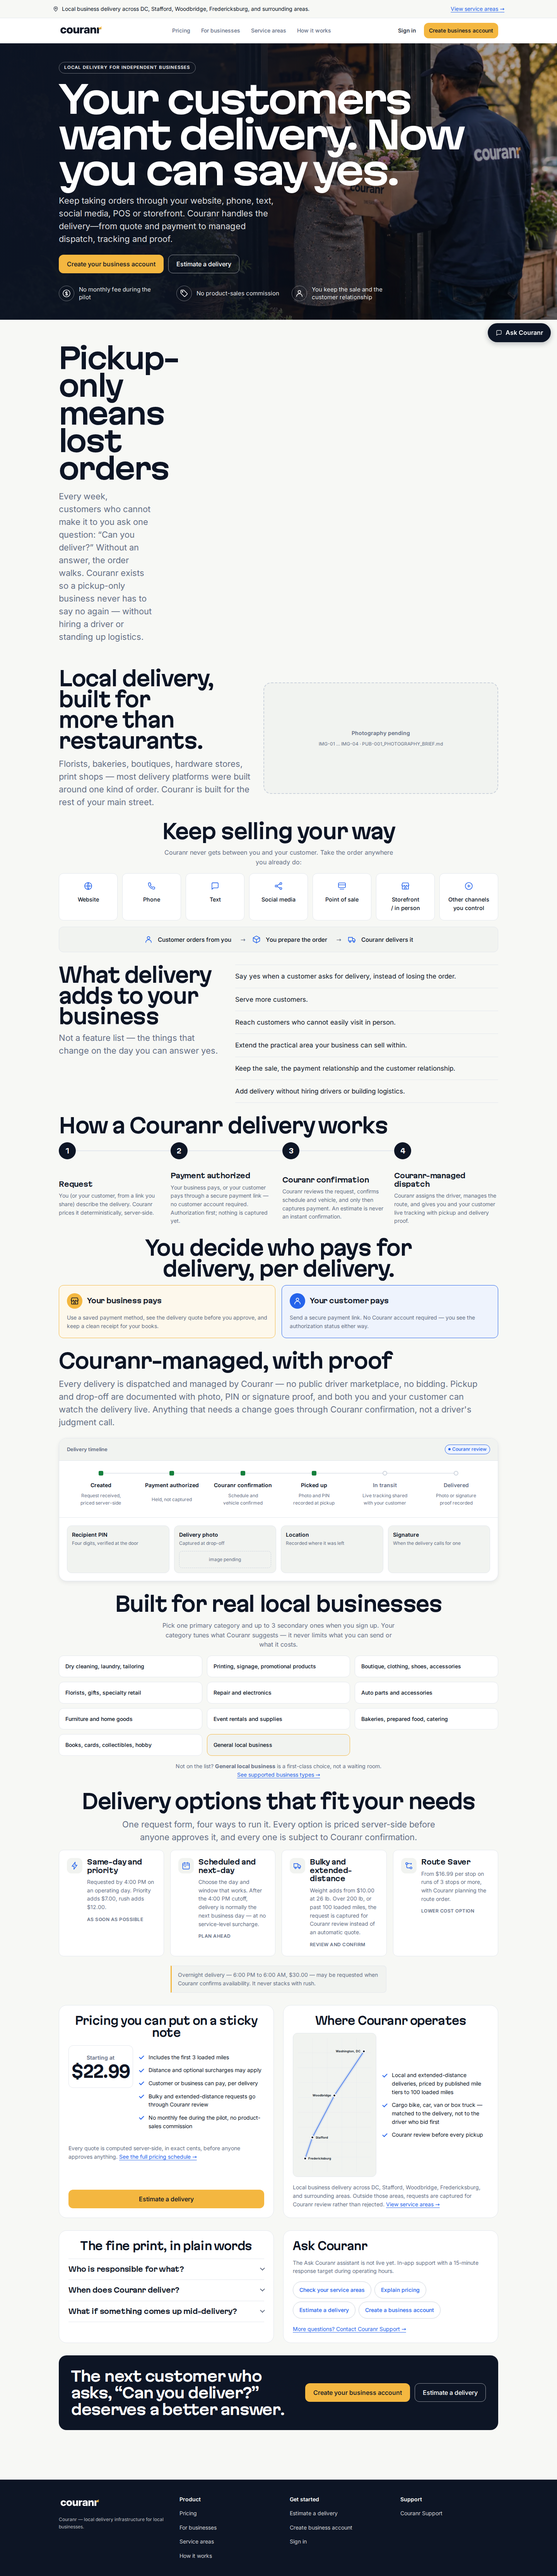
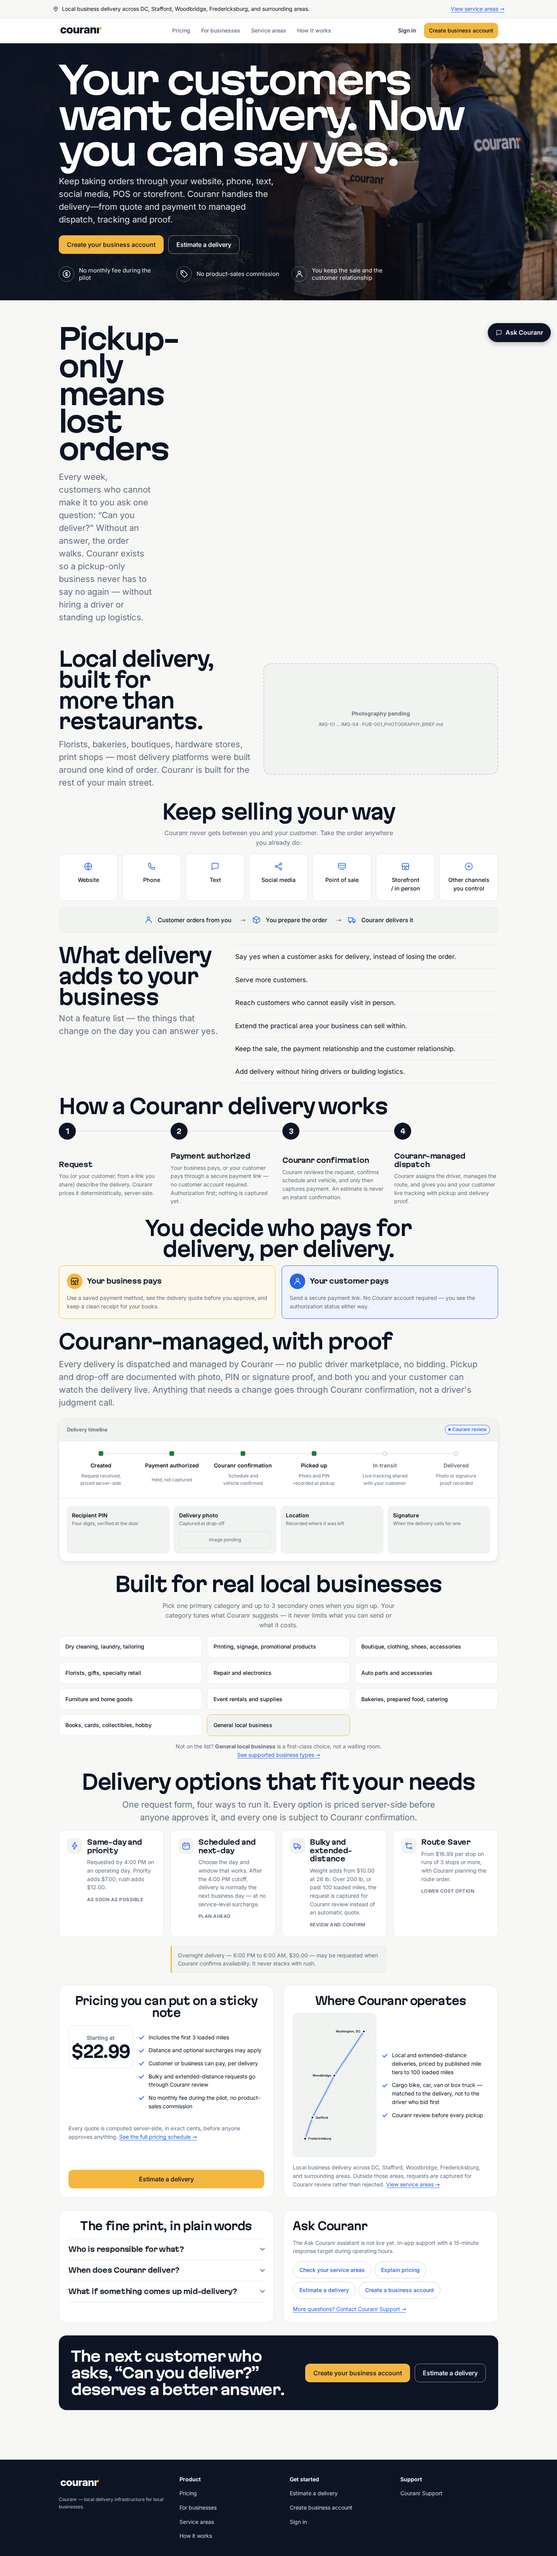
Remove the hero eyebrow — owner instruction, no eyebrows anywhere
"The eyebrow local delivery needs to be removed. I don't want any eyebrows."

This settles the one question COURANR_VISUAL_FIDELITY_AMENDMENT.md §5.1
explicitly reserved for the owner. §5.1 said both that a pill in this hero is not
itself a defect — the artboard shows one — and that the copy conflict between the
artboard's DELIVERY MADE SIMPLE and MKT-002's descriptor was not the agent's to
resolve. The owner resolved it by removing the pattern rather than choosing a
string.

The element is gone and `.cr-hero__label` is deleted from the stylesheet with it.
An unused class is one import away from returning, and that is exactly how the
shared marketing eyebrow reached four screens with no mock.

- The test that asserted "exactly ONE public screen carries a contextual label,
  and it is PUB-001" now asserts none does, and also that the rule is gone from
  the CSS.
- Amendment §6's substitution ban — no pill, chip, tiny uppercase label, badge or
  decorative rule in its place — now covers all five public screens rather than
  the four the eyebrow was first removed from.
- Gate C and the evidence capture drop the label as a sampled region rather than
  making it optional: a region that silently measures nothing is how a gate stops
  testing without going red.

SURFACED RATHER THAN BURIED: MKT-002's consumer descriptor "Local delivery for
independent businesses" lived only in that pill and is now rendered nowhere, so
[…]

Changed region(s): [[0.0, 0.0, 1.0, 0.9357], [0.8125, 0.3431, 0.875, 0.3743], [0.7812, 0.9045, 0.8438, 0.9357]]

diff --git a/tests/couranr-visual-tokens.test.ts b/tests/couranr-visual-tokens.test.ts
@@ -288,17 +288,22 @@ describe("§32.4 + fidelity amendment §6 — the eyebrow rule", () => {
     expect(offenders, `shared eyebrow reintroduced in: ${offenders.join(", ")}`).toEqual([]);
   });
 
-  it("exactly ONE public screen carries a contextual label, and it is PUB-001", () => {
+  it("NO public screen carries a contextual label", () => {
+    // This asserted the opposite — "exactly one, and it is PUB-001" — because
     // PUB-001's artboard visibly shows a rounded bordered pill above the
-    // headline, so the treatment is mock-supported and stays. Nothing else has
-    // a mock, so nothing else may have one.
+    // headline and amendment §5.1 says its presence is not itself a defect.
+    // §5.1 also says the copy question belongs to the owner, and the owner
+    // resolved it: no eyebrows anywhere, including the one the mock shows. The
+    // class is deleted from the stylesheet as well, because an unused class is
+    // one import away from returning.
     const carrying: string[] = [];
     for (const f of CANON_FILES.filter((f) => /\(public\)[\\/].*page\.tsx$/.test(f))) {
       if (/cr-hero__label/.test(readFileSync(f, "utf8"))) {
         carrying.push(path.relative(ROOT, f));
       }
     }
-    expect(carrying).toEqual(["app/(couranr)/(public)/page.tsx"]);
+    expect(carrying).toEqual([]);
+    expect(LIVE_CSS).not.toContain(".cr-hero__label {");
   });
 
   it("the retired eyebrow was not swapped for another small-label pattern", () => {
@@ -306,10 +311,12 @@ describe("§32.4 + fidelity amendment §6 — the eyebrow rule", () => {
     // uppercase labels, badge components, or decorative rules." Checked as an
     // absence on the four screens the label was removed from, because a
     // like-for-like swap is the obvious way to defeat this rule.
-    const RETIRED = ["businesses", "service-areas", "how-it-works", "pricing"];
+    // All five now, not the four the eyebrow was first removed from: the owner
+    // removed PUB-001's too, so it is subject to the same substitution ban.
+    const RETIRED = ["", "businesses", "service-areas", "how-it-works", "pricing"];
     for (const page of RETIRED) {
       const src = readFileSync(
-        path.join(CANON, `(public)/${page}/page.tsx`),
+        path.join(CANON, `(public)/${page}/page.tsx`.replace("//", "/")),
         "utf8",
       );
       const heroBlock = src.slice(0, src.indexOf("</section>"));
@@ -322,12 +329,17 @@ describe("§32.4 + fidelity amendment §6 — the eyebrow rule", () => {
     }
   });
 
-  it("the governed hero copy is still present", () => {
-    // The ban is on the PATTERN, not the copy. If this goes red the removal
-    // was over-applied. MKT-002's descriptor stays until the owner resolves
-    // the mock-vs-MKT-002 copy conflict recorded in amendment §5.1.
+  it("the governed hero HEADLINE and supporting copy are still present", () => {
+    // The ban is on the PATTERN, and this is the guard against over-applying
+    // it. It used to assert MKT-002's consumer descriptor ("Local delivery for
+    // independent businesses") was on the page — that string lived only in the
+    // eyebrow, so the owner's removal took it with it. The registry line has
+    // no rendered home now and the owner should amend it; what stays asserted
+    // is the copy that has one.
     const home = readFileSync(path.join(CANON, "(public)/page.tsx"), "utf8");
-    expect(home).toContain("Local delivery for independent businesses");
+    expect(home).toContain("Your customers want delivery.");
+    expect(home).toContain("Now you can say yes.");
+    expect(home).toContain("Keep taking orders through your website");
   });
 });
 

diff --git a/app/(couranr)/couranr.css b/app/(couranr)/couranr.css
@@ -1086,30 +1086,14 @@
   padding-inline: var(--couranr-space-4);
 }
 
-/* PUB-001's hero contextual label — the artboard visibly shows a rounded,
-   bordered, uppercase pill above the headline, so this treatment is
-   mock-supported and stays. Renamed from `.cr-hero__eyebrow` because the WORD
-   is what got institutionalised: a "marketing eyebrow" reads as a reusable
-   pattern, and it was reused on four screens with no mock. This is one label on
-   one screen.
-
-   COPY CONFLICT, UNRESOLVED AND NOT MINE TO SETTLE (amendment §5.1): the
-   artboard's pill reads DELIVERY MADE SIMPLE — the approved tagline lockup —
-   while MKT-002 specifies the hero eyebrow copy this renders. Written authority
-   controls copy, so MKT-002's text stays and the geometry follows the mock. The
-   owner resolves which one the hero should carry. */
-.cr-hero__label {
-  display: inline-block;
-  text-transform: uppercase;
-  letter-spacing: 0.09em;
-  font-size: 0.72rem;
-  font-weight: var(--couranr-weight-semibold);
-  color: var(--couranr-text-inverse);
-  border: 1px solid rgba(255, 255, 255, 0.4);
-  border-radius: var(--couranr-radius-pill);
-  padding: 5px 13px;
-  margin: 0 0 var(--couranr-space-5);
-}
+/* NO HERO EYEBROW. `.cr-hero__label` (and `.cr-hero__eyebrow` before it) is
+   deleted, not left unused — an unused class is one import away from returning,
+   which is exactly how the shared marketing eyebrow spread to four screens that
+   had no mock. Owner instruction: no eyebrows anywhere, including the one the
+   PUB-001 artboard shows. Amendment §6 bans the substitutes too — pill, chip,
+   tiny uppercase label, badge, decorative rule — and
+   tests/couranr-visual-tokens.test.ts asserts their absence on all five public
+   screens. */
 
 /* Layout and colour only. The TYPE belongs to `.cr-type-hero` (§12.1), which
    the element also carries.
@@ -2422,20 +2406,6 @@
    headers" while VIS-001 says "Use the canonical supplied lockup; do not
    recreate with typed text." A typed tagline inside a small header breaks both.
    MKT-002's consumer descriptor stays. */
-@media (max-width: 767px) {
-  .cr-hero__label {
-    color: var(--couranr-gold);
-    border-color: var(--couranr-gold);
-    /* The pill needs its own ground here, and this is a measurement rather
-       than a taste: the mobile crop is a different, brighter photograph, and
-       gold over it measured 1.80:1 where §23.2 wants 4.5:1 for normal text.
-       White would not have saved it either — over the same pixels white is
-       3.30:1. The desktop pill sits on a dark part of its own crop and clears
-       17.95:1 with no fill at all, which is why this is scoped to mobile.
-       Re-measured after the change, not assumed. */
-    background: rgba(13, 21, 37, 0.82);
-  }
-}
 
 .cr-hero__cta-arrow { display: none; }
 

diff --git a/app/(couranr)/(public)/page.tsx b/app/(couranr)/(public)/page.tsx
@@ -293,11 +293,20 @@ export default function Page() {
         <div className="cr-hero__scrim" aria-hidden="true" />
 
         <div className="cr-hero__body">
-          {/* Mock-supported: the artboard shows this pill in the hero. §14.5's
-              "2-3 eyebrows per page" budget is DELETED by the fidelity
-              amendment — there is no allowance to spend, only a mock to
-              match. */}
-          <p className="cr-hero__label">Local delivery for independent businesses</p>
+          {/* NO EYEBROW. The artboard shows a rounded bordered pill above this
+              headline, and the fidelity amendment §5.1 says the presence of one
+              here is not itself a defect — but it also says the copy question
+              is the owner's and not the agent's. THE OWNER RESOLVED IT:
+              no eyebrow anywhere, including this one, so the pill is gone
+              rather than restyled. Amendment §6 governs what may not replace
+              it: no pill, chip, tiny uppercase label, badge or decorative
+              rule. The hierarchy is the headline and the whitespace above it.
+
+              MKT-002's consumer descriptor ("Local delivery for independent
+              businesses") had no other home on this screen and is therefore no
+              longer rendered anywhere. That is a registry line the owner should
+              amend — the code follows the instruction, and the disagreement is
+              surfaced rather than papered over. */}
           <h1 id="hero-h" className="cr-hero__h1 cr-type-hero">
             Your customers want delivery.{" "}
             <span className="cr-hero__h1-accent">Now you can say yes.</span>

diff --git a/docs/couranr-mvp/ui-reference/evidence/PUB-001/region-review.md b/docs/couranr-mvp/ui-reference/evidence/PUB-001/region-review.md
@@ -52,7 +52,7 @@ deviations; this is what changed and what each claim rests on.
 |---|---|---|
 | `public-header` | Sign in + gold CTA visible in the bar at every width | Below 900px the bar is wordmark + hamburger only; both auth actions render full-size in the drawer footer, as the mobile artboard shows |
 | `top-notice` | bordered rounded box **inside** the page content | full-bleed bar **above** the header; cream desktop, navy below 768px, pin icon, right-aligned link |
-| `hero-small-label` | white pill at all widths | gold border and gold text below 768px, per the mobile artboard |
+| `hero-small-label` | white pill at all widths | **removed entirely, on owner instruction** — see below |
 | `hero-headline` | one accent colour at all widths | white at ≥768px, gold below — both artboards, both reproduced |
 | `hero-cta` | inline buttons, no bottom bar | full-width stacked below 768px, right arrow on the primary, and a fixed bottom bar carrying the primary action beside the Ask Couranr control |
 | `hero-trust` | white outlined circles at all widths | gold glyphs with no ring below 768px |
@@ -100,6 +100,40 @@ because it is a container."*
 See `native-mock-references.md`.
 
 ---
+
+## The owner removed the hero eyebrow
+
+After the correction pass and the self-review, the owner gave a direct
+instruction: *"The eyebrow local delivery needs to be removed. I don't want any
+eyebrows."*
+
+That settles the one question amendment §5.1 explicitly reserved for the owner.
+§5.1 said two things: the presence of a pill in this hero is not itself a defect
+(the artboard shows one), and the copy conflict between the artboard's
+`DELIVERY MADE SIMPLE` and MKT-002's descriptor is not the agent's to resolve.
+The owner resolved it by removing the pattern rather than picking a string.
+
+So the element is gone and `.cr-hero__label` is deleted from the stylesheet with
+it — an unused class is one import away from returning, and that is exactly how
+the shared marketing eyebrow reached four screens with no mock. The substitution
+ban in amendment §6 now covers all five public screens instead of the four the
+eyebrow was first removed from, and the test that asserted "exactly one public
+screen carries a contextual label, and it is PUB-001" asserts the opposite.
+
+Two consequences worth naming rather than burying:
+
+- **MKT-002's consumer descriptor is now rendered nowhere.** *"Local delivery for
+  independent businesses"* lived only in that pill. The registry line and the
+  screen disagree until the owner amends it. The test that guarded against
+  over-applying the eyebrow removal used to assert that string was on the page;
+  it now asserts the headline and supporting copy, which do have a home.
+- **The mobile pill's contrast fix is moot.** It is left in the record below
+  because it is why Gate C now measures both art-directed widths, which is a
+  change worth keeping on its own.
+
+Re-measured after the removal: `@1440` headline 5.29:1, accent 6.35:1, subhead
+16.01:1, trust 11.16:1; `@390` headline 9.66:1, accent 5.01:1 gold, subhead
+5.31:1, trust 8.54:1. axe reports 0 violations at both widths.
 
 ## Three defects the self-review found after the correction pass
 
@@ -202,9 +236,11 @@ axe's `target-size` rule, which passes.
 
 ## Accessibility review — `accessibility-proof.json`
 
-axe-core at `wcag2a, wcag2aa, wcag21a, wcag21aa, wcag22aa`: **0 violations**,
-29 rules passed, 1 incomplete (`color-contrast`, which axe cannot resolve over a
-photograph — Gate C measures that separately from the painted pixels).
+axe-core at `wcag2a, wcag2aa, wcag21a, wcag21aa, wcag22aa`, **at both 1440 and
+390**: 0 violations at each, 29 rules passed, 1 incomplete (`color-contrast`,
+which axe cannot resolve over a photograph — Gate C measures that separately from
+the painted pixels). It used to run at 1440 only, which left every mobile-only
+colour and layout rule unscanned.
 
 One `h1`. No skipped heading levels across 25 headings. `main`, four `nav`
 landmarks and `footer` present. Skip link present and first in the tab order.
@@ -217,11 +253,14 @@ region actually renders**:
 
 | region | @1440 | @390 |
 |---|---|---|
-| headline | 5.56:1 white | 9.47:1 white |
-| headline accent | 6.41:1 white | 5.00:1 **gold** |
-| small label | 17.95:1 white | 5.88:1 **gold on rgba(13,21,37,.82)** |
-| subhead | 15.09:1 white | 5.51:1 white |
-| trust row | 11.41:1 white | 8.56:1 white |
+| headline | 5.29:1 white | 9.66:1 white |
+| headline accent | 6.35:1 white | 5.01:1 **gold** |
+| subhead | 16.01:1 white | 5.31:1 white |
+| trust row | 11.16:1 white | 8.54:1 white |
+
+(The small-label row is gone with the eyebrow. Its last measured values were
+17.95:1 at 1440 and 5.88:1 at 390 — the second only after it was given a ground,
+because gold on the bare mobile crop was 1.80:1.)
 
 Floors: 3:1 for the headline and its accent (large text), 4.5:1 for the rest.
 

diff --git a/docs/couranr-mvp/ui-reference/evidence/PUB-001/intentional-deviations.md b/docs/couranr-mvp/ui-reference/evidence/PUB-001/intentional-deviations.md
@@ -16,13 +16,24 @@ justified. `scripts/checkDriftLedger.mjs` fails any ledger row whose
 
 ## Copy the artboard shows that written authority replaces
 
-**1. The hero pill does not read `DELIVERY MADE SIMPLE`.**
-Authority: `BRAND_GUIDE.md:10` — *"Do not use the tagline inside small headers"* —
-and `VIS-001` — *"Use the canonical supplied lockup; do not recreate with typed
-text."* A typed tagline inside a small header breaks both. MKT-002's consumer
-descriptor is used instead. The pill's **geometry** is unchanged and follows the
-mock, including its mobile gold treatment (amendment §5.1 is explicit that the
-pill's presence is not itself a defect).
+**1. There is no hero pill at all — the artboard shows one.**
+Authority: **owner instruction, 2026-08-20 — "I don't want any eyebrows."**
+Amendment §5.1 says the presence of a pill here is not itself a defect *and* that
+the copy question between the artboard's `DELIVERY MADE SIMPLE` and MKT-002's
+descriptor belongs to the owner rather than the agent. The owner settled it by
+removing the pattern rather than choosing between the two strings. The element
+and the `.cr-hero__label` rule are both deleted — an unused class is one import
+away from returning, which is how the shared marketing eyebrow reached four
+screens that had no mock. Amendment §6 bans the substitutes (pill, chip, tiny
+uppercase label, badge, decorative rule) and the test suite asserts their absence
+on all five public screens.
+
+**Consequence to surface, not to paper over:** MKT-002's consumer descriptor
+*"Local delivery for independent businesses"* lived only in that pill and is now
+rendered nowhere. The registry line and the screen disagree until the owner
+amends it. `BRAND_GUIDE.md:10` and `VIS-001` independently forbade the
+artboard's typed tagline in a small header, so that half of the conflict was
+already closed; this removes the other half.
 
 **2. The hero headline words are MKT-002's, not the artboard's.**
 Authority: amendment §1 — written product authority controls copy. Mock:
@@ -128,24 +139,14 @@ object and nothing floats over the page. The label survives as the button's
 accessible name, and 48px clears §23.6's 44px floor. **Desktop is unchanged** and
 still renders the labelled pill bottom-right exactly as the artboard shows it.
 
-**18. The mobile hero pill has a translucent navy ground; the artboard's is a
-bare outline.**
-Authority: §23.2's contrast floor, measured rather than assumed. Over the mobile
-crop, gold on the bare photograph is **1.80:1** against the 4.5:1 floor for
-normal text. White would not have rescued it — over the same pixels white is
-3.30:1 — because the pill sits over a bright part of *that* crop whatever colour
-the text is. With the ground it measures **5.88:1**. The outline, the gold, the
-radius and the position are unchanged, and desktop has no ground because it does
-not need one (17.95:1 on its own crop).
-
-**19. Seven channel tiles, not the artboard's six.**
+**18. Seven channel tiles, not the artboard's six.**
 Authority: `MKT-002 §10.4`, which requires every merchant-controlled channel to be
 named. The artboard splits social into Instagram and Facebook brand marks while
 dropping "point of sale" and "other channels you control". Written authority
 governs the count and the naming; the mock governs the tile geometry, which is
 reproduced.
 
-**20. The notice bar's link is hidden below 768px.**
+**19. The notice bar's link is hidden below 768px.**
 Authority: the mobile artboard itself, which shows the sentence alone. At 390px
 the governed MKT-001 sentence already wraps to three lines; there is no room
 beside it.
